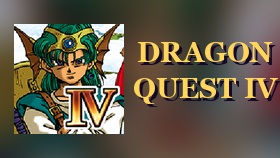
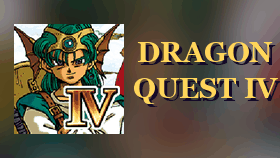
LiveArea images as 8-bit palette PNGs: the Vita refuses to promote the package otherwise (0x8010113D)

diff --git a/extras/livearea/src/make_art.py b/extras/livearea/src/make_art.py
@@ -34,24 +34,28 @@ def title(img, text, y, size, color=(255, 214, 90), cx=None):
     d.text((x + 3, y + 3), text, font=f, fill=(20, 10, 40))
     d.text((x, y), text, font=f, fill=color)
 
+def save(img, name):
+    """the Vita refuses to promote a package with non-indexed PNGs (0x8010113D): 8-bit palette only"""
+    img.quantize(256, method=Image.Quantize.MEDIANCUT, dither=Image.Dither.FLOYDSTEINBERG).save(os.path.join(OUT, name))
+
 def main():
     icon = load_icon(sys.argv[1])
     # icon0: 128x128
-    icon.resize((128, 128), Image.LANCZOS).save(os.path.join(OUT, "icon0.png"))
+    save(icon.resize((128, 128), Image.LANCZOS), "icon0.png")
     # bg0: 840x500
-    bg = backdrop(icon, 840, 500, 0.45); bg.save(os.path.join(OUT, "bg0.png"))
+    save(backdrop(icon, 840, 500, 0.45), "bg0.png")
     # pic0: 960x544 with the icon and the title
     pic = backdrop(icon, 960, 544, 0.5)
     big = icon.resize((300, 300), Image.LANCZOS)
     pic.paste(big, (60, 122))
     title(pic, "DRAGON QUEST IV", 205, 52, cx=660)
     title(pic, "Chapters of the Chosen", 290, 30, (230, 230, 255), cx=660)
-    pic.save(os.path.join(OUT, "pic0.png"))
+    save(pic, "pic0.png")
     # startup: 280x158 gate image
     st = backdrop(icon, 280, 158, 0.4)
     st.paste(icon.resize((110, 110), Image.LANCZOS), (14, 24))
     title(st, "DRAGON", 36, 28, cx=205); title(st, "QUEST IV", 72, 28, cx=205)
-    st.save(os.path.join(OUT, "startup.png"))
+    save(st, "startup.png")
     for f in ("icon0", "bg0", "pic0", "startup"): print(f, Image.open(os.path.join(OUT, f + ".png")).size)
 
 main()
